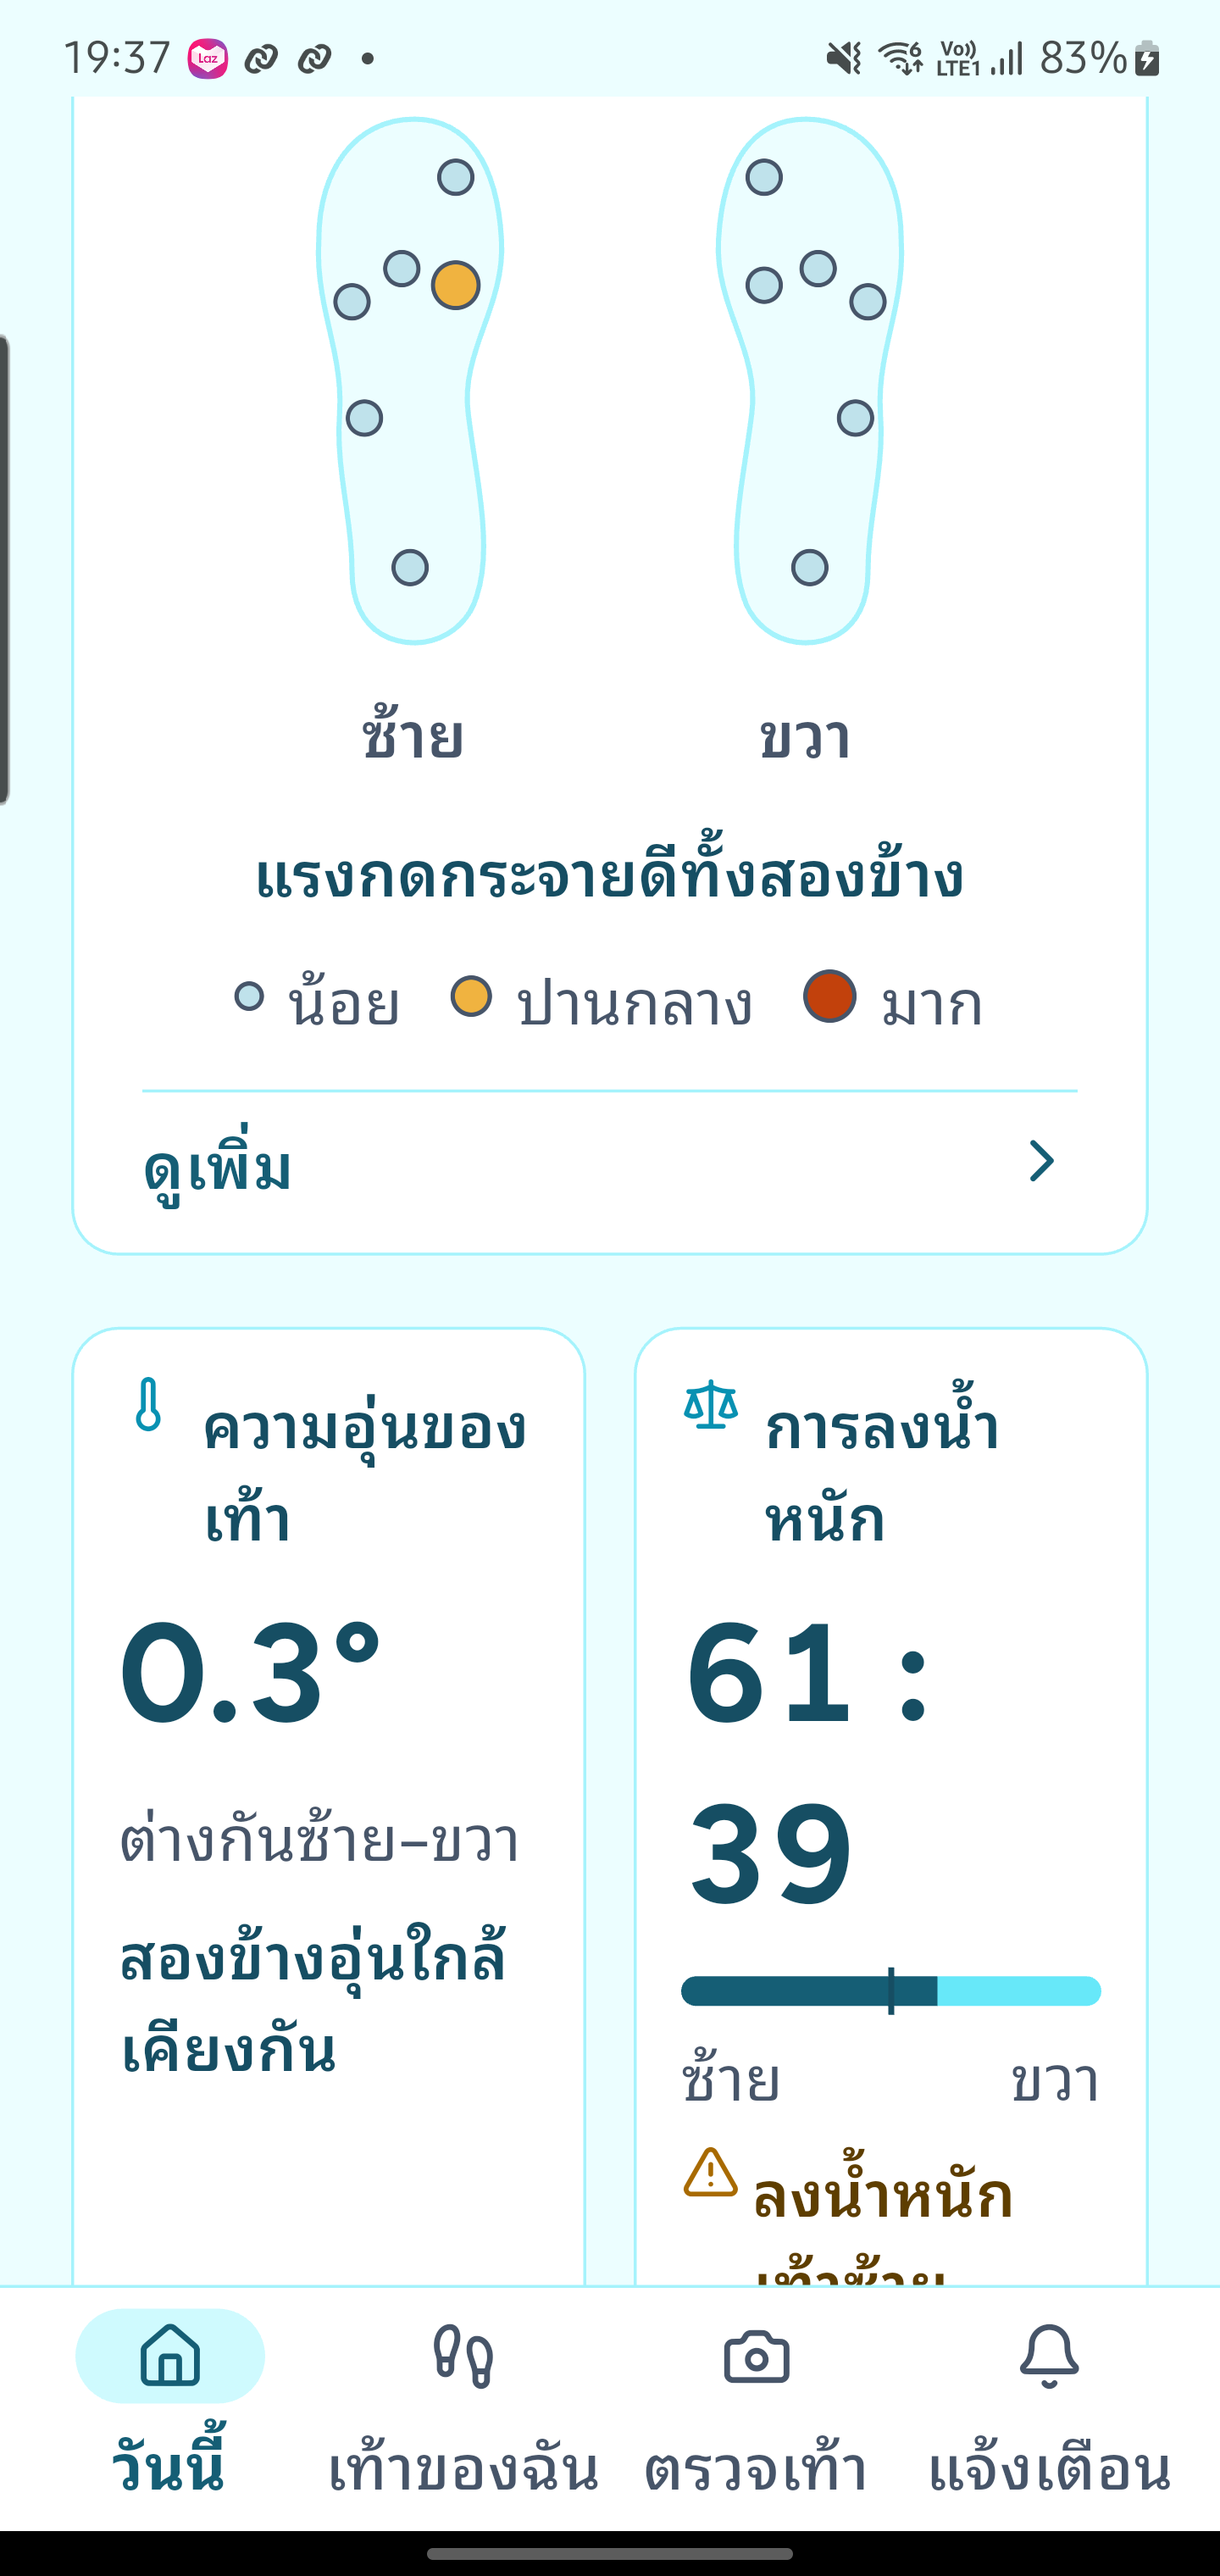
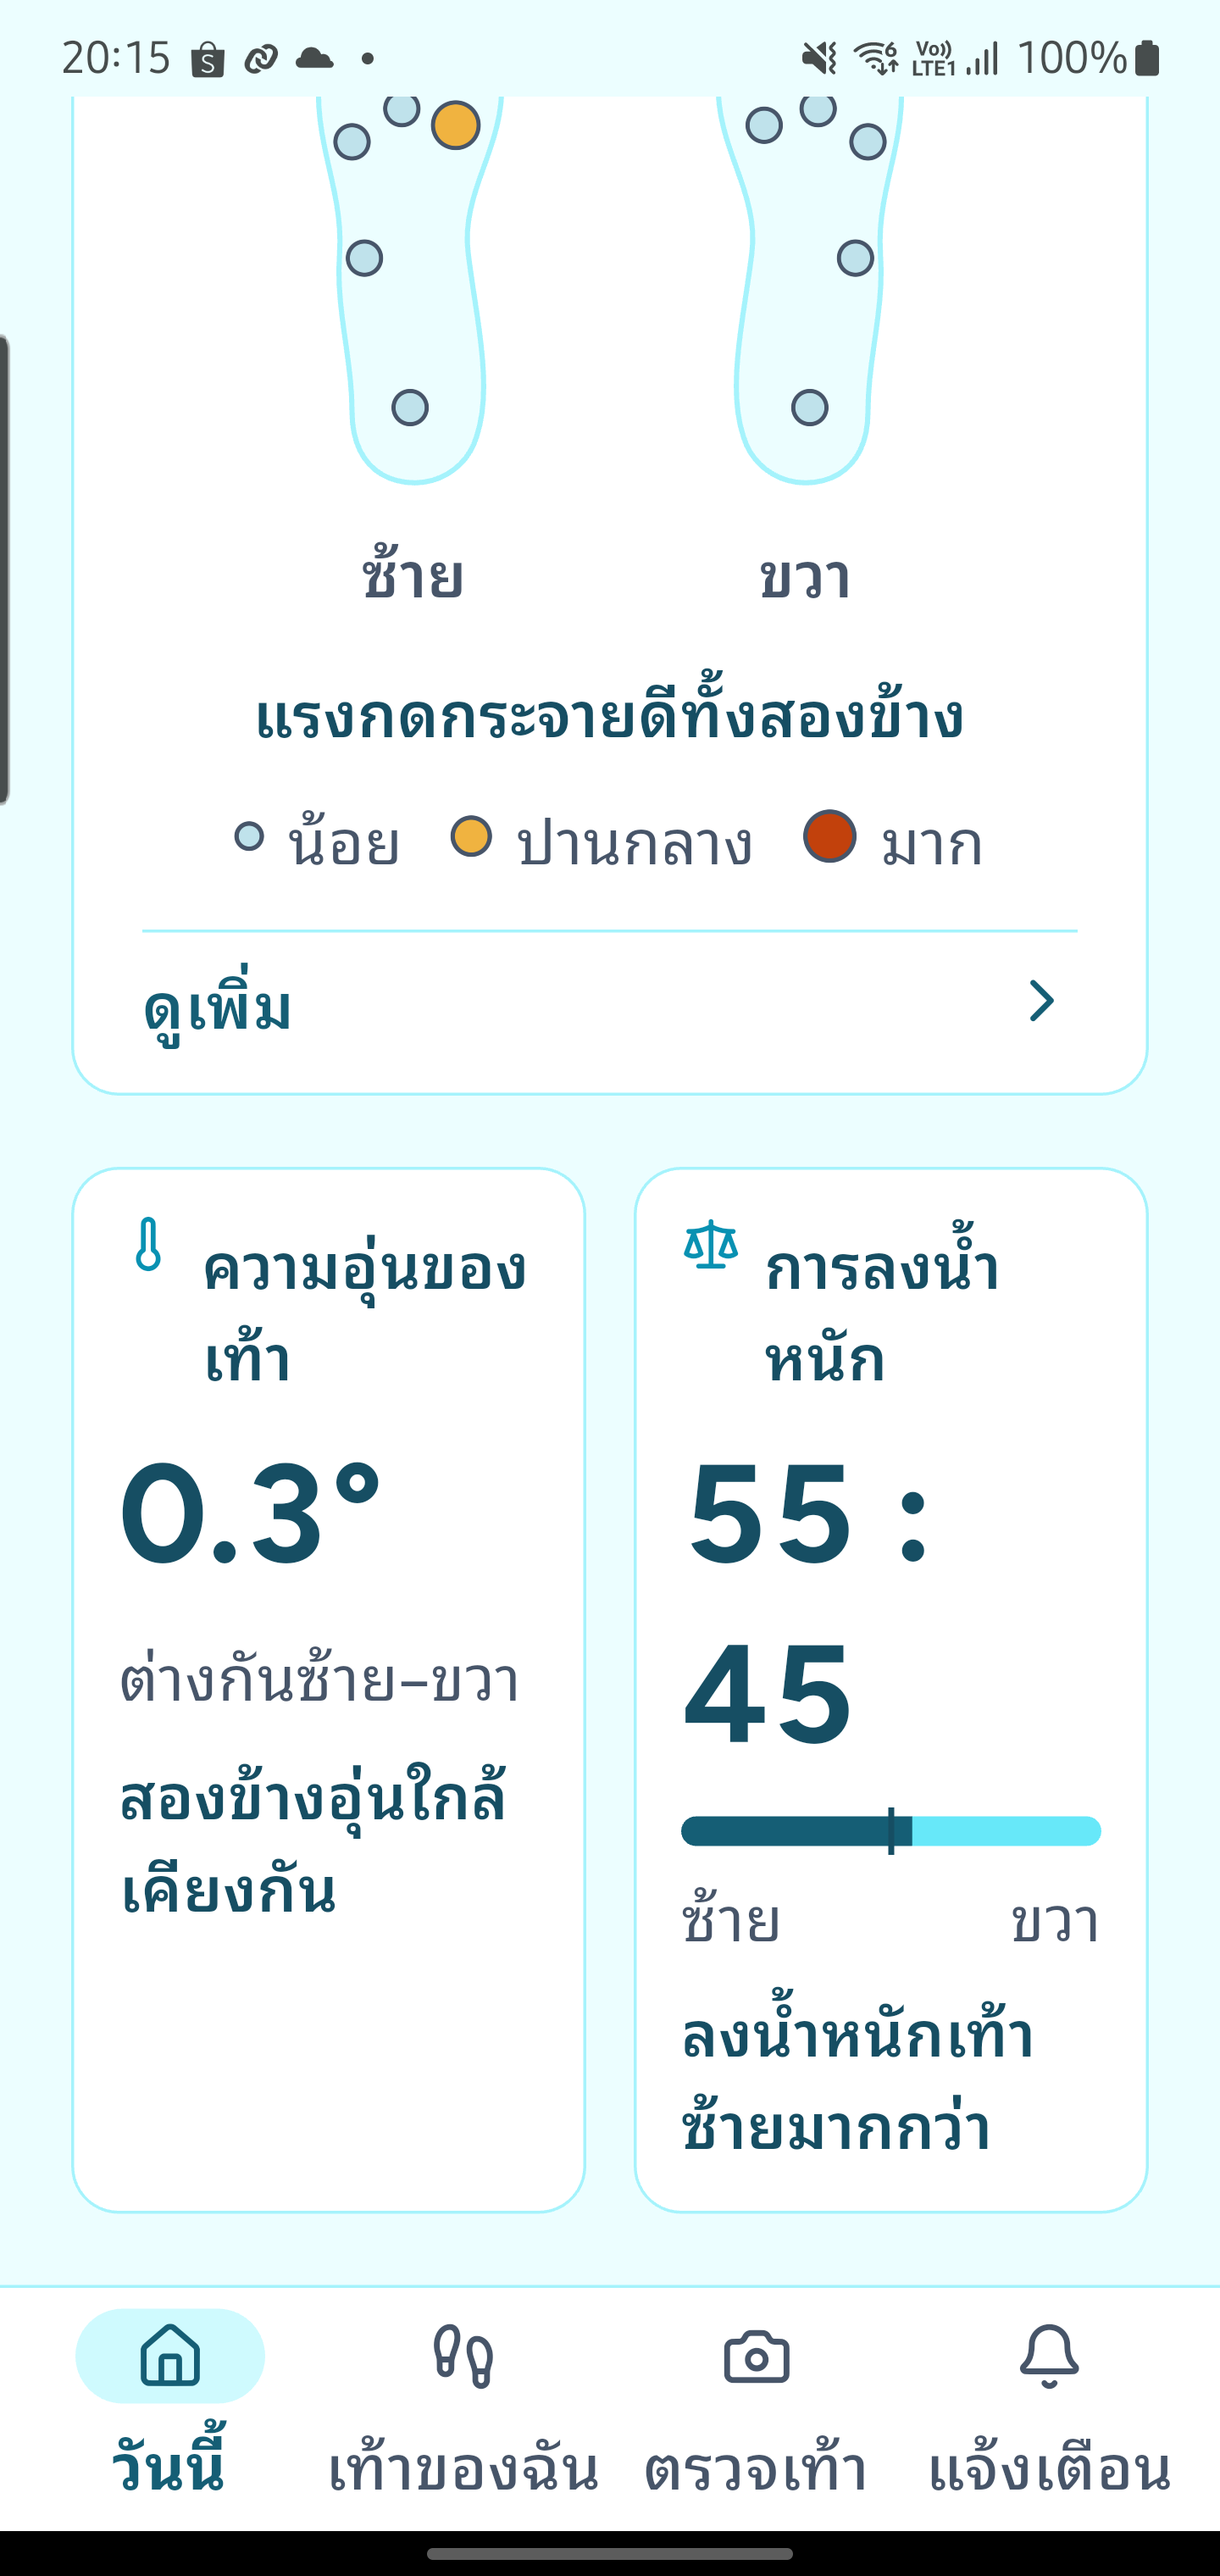
S5: report and phone screenshots after the design review

diff --git a/docs/reports/028-flutter-home-style-d.md b/docs/reports/028-flutter-home-style-d.md
@@ -17,7 +17,7 @@ of this report are still open, so S5 is not done.
 
 ## Summary
 
-- **Automated:** `flutter analyze` is clean. All **374 tests pass**,
+- **Automated:** `flutter analyze` is clean. All **384 tests pass**,
   including 36 goldens (14 of them new Home goldens). `dart format` is clean.
 - **Emulator** (`emulator-5554`, `MOCK=…`): Safe, Rest and one-foot-missing
   were shown live, plus 200 % system text. There were no runtime errors.
@@ -65,13 +65,20 @@ of this report are still open, so S5 is not done.
   is safe. Contract versioning: §8.3 now notes "`battery` added 2026-10-23
   (S5), a local addendum to v1.5", and the history table has a "1.5
   addendum" row. The contract owner should fold it into the next version.
-- **D6** One asymmetry definition: `PeakAsymmetry` in
-  `lib/rules/asymmetry.dart` holds the balance numbers ("71 : 29") and the
-  orange note. PAI = |L − R| / ((L + R)/2) × 100 (contract §8.2). The
-  contract does not say what a foot's "peak" is taken over, so S5 uses the
-  highest channel over the last 2 s. This is marked **INTERIM** in code and
-  in **BACKLOG 37** for S7 (per-step peaks, "≥ 20 steps" persistence). S7
-  must reuse this function.
+- **D6** (final, from the design review on 2026-10-23; it replaces the
+  first D6 change). "{L} : {R}" is **weight share**: each foot's share of
+  the summed kPa over all zones, as a mean per sample over a rolling 10 s
+  window (`lib/device/rolling_load.dart`, `lib/rules/weight_share.dart`,
+  INTERIM). The note reads "ลงน้ำหนักเท้า{ซ้าย/ขวา}มากกว่า" when the two
+  loads differ by more than `asymmetry.peakPct` (PAI formula), otherwise
+  "ซ้ายและขวาพอ ๆ กัน". **Until S7 the note is always `ink` with no
+  icon**; S7 turns it orange only while `ASYMMETRY_PEAK` is active.
+  `PeakAsymmetry` (`lib/rules/asymmetry.dart`, peak = highest channel over
+  2 s) stays as S7's starting point for that rule and is not used by Home.
+  Both use one PAI formula (`paiPercent`). All of this is in **BACKLOG
+  37**. To stop the number flickering at 10 Hz as strides enter and leave
+  the window, it keeps its shown value while the share is within 1 point
+  of it (display only).
 - **D7** Home shows No data when either foot is missing. **BACKLOG 38**
   (for S7): the connected foot's level 3+ must win over No data, and the
   detail text must name the missing foot.
@@ -228,23 +235,47 @@ three installs.
 | debug | Accessibility tree (`uiautomator dump`) | Tabs were not activatable. **Fixed** in `669d7b7` (above) and re-checked |
 | profile | Both simulators connected through BLE debug, Home streaming, performance overlay on, 40 s | Steady state: UI avg 1.3–1.7 ms (max 10.6 ms), raster avg 6.1–7.2 ms (max 16.5 ms), all inside the 16.7 ms frame. One 20.3 ms UI frame came from navigating back to Home (entrance stagger), not from the 10 Hz updates. It is in the 10 s and 20 s windows and gone by 30 s. `phone/profile_overlay_home_*.png` |
 | profile | Home with both simulators | Both chips connected (battery 97 %), the foot map follows the boards, and the small cards show values |
-| **release `669d7b7`** (stays on the phone) | Settings → "ส่วนผู้วิจัย": a short tap does nothing; a 2.3 s hold opens Research capture; the row is `long-clickable` for TalkBack | Pass |
+| release `669d7b7` | Settings → "ส่วนผู้วิจัย": a short tap does nothing; a 2.3 s hold opens Research capture; the row is `long-clickable` for TalkBack | Pass |
 
 The phone's Settings node merges the group header "สำหรับผู้วิจัย" with the
 row, so TalkBack reads "สำหรับผู้วิจัย ส่วนผู้วิจัย, กดค้าง 2 วินาทีเพื่อเปิด".
 This is acceptable, but the header could be separated in S8B.
 
-**For the user to decide (safeOrangeDot):** with the interim asymmetry
-definition, the `safeOrangeDot` preset also shows the orange balance note
-("61 : 39", "ลงน้ำหนักเท้าซ้ายมากกว่า"). A foot's peak is its highest
-zone, so one medium zone on one foot is enough to cross
-`asymmetry.peakPct`. The spec gives `PRESSURE_WATCH` as "Safe + orange
-dot" only. Whether this pairing is right depends on how the contract
-defines a foot's peak (BACKLOG 37).
+### Design review (2026-10-23) and fixes
+
+The user's design reviewer compared the phone screenshots with the style D
+boards. Everything matched except the `watch` preset. The three BACKLOG 39
+strings were approved.
+
+- **`watch` vs board HomeDWatch.** The status named the left forefoot,
+  but the map had no high dot and the caption said "แรงกดกระจายดีทั้งสอง
+  ข้าง". The preset's zones now follow the board: left [medium, high,
+  medium, low, low, medium] and right [low, medium, low, low, low,
+  medium]. The mock test checks every zone's band against
+  `thresholds.json`. The caption now reads "ปลายเท้าซ้ายรับน้ำหนักมาก" in
+  the Be-careful text colour with the warning icon, and the left map label
+  is "เท้าซ้าย ปลายเท้ารับน้ำหนักมาก".
+  - The caption comes from the live dot levels: `mapCaption` reads the
+    map's levels. `test/home/home_model_test.dart` streams one high
+    channel from a fake insole with the status Safe and no mock, and gets
+    the same caption.
+  - `test/home/home_test.dart` checks the watch levels, the caption colour
+    and icon, and the map labels. The `home_watch_*` goldens show it.
+  - The left first metatarsal head now peaks above `alertKpa`, so S7's
+    `PRESSURE_PEAK` can fire alongside `PRESSURE_PTI` (BACKLOG 37 note).
+  - The right foot's two medium zones were tied, which made its top zone
+    and TalkBack label flip at 10 Hz. They are now 120 and 100 kPa.
+- **Balance:** D6 above. On the phone, `safeOrangeDot` shows "55 : 45" and
+  "ลงน้ำหนักเท้าซ้ายมากกว่า" in ink, with no icon.
+- Regenerated goldens: `home_watch_100/200`, `home_safeOrangeDot_100/200`.
+  No other golden changed.
+- Phone screenshots for `watch` and `safeOrangeDot` were replaced in
+  `phone/text100/` and `phone/text130/` (debug build, then release
+  reinstalled; `firstInstallTime` still 2026-10-18).
 
 ## Note 10 checkpoint — for the user
 
-The release build `669d7b7` is on the phone and stays there. **Do not
+The release build **`efdc7cd`** is on the phone and stays there. **Do not
 reinstall until the TEST-003 laptop check below says PASS.** Items 1 and 6
 were run by Claude (above). Item 1 still needs the user's comparison with
 the design boards.
